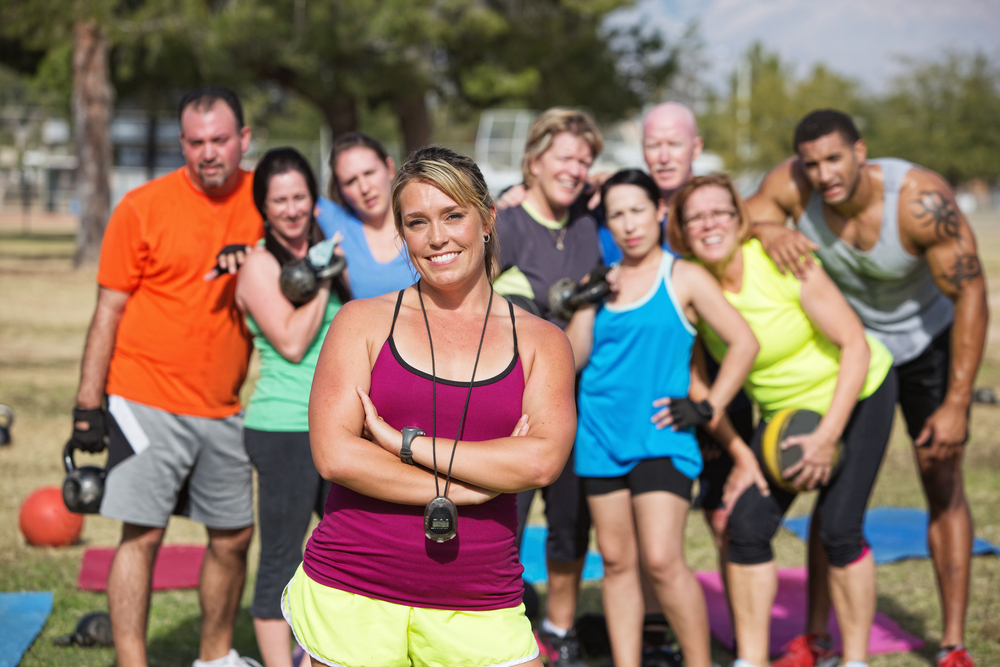
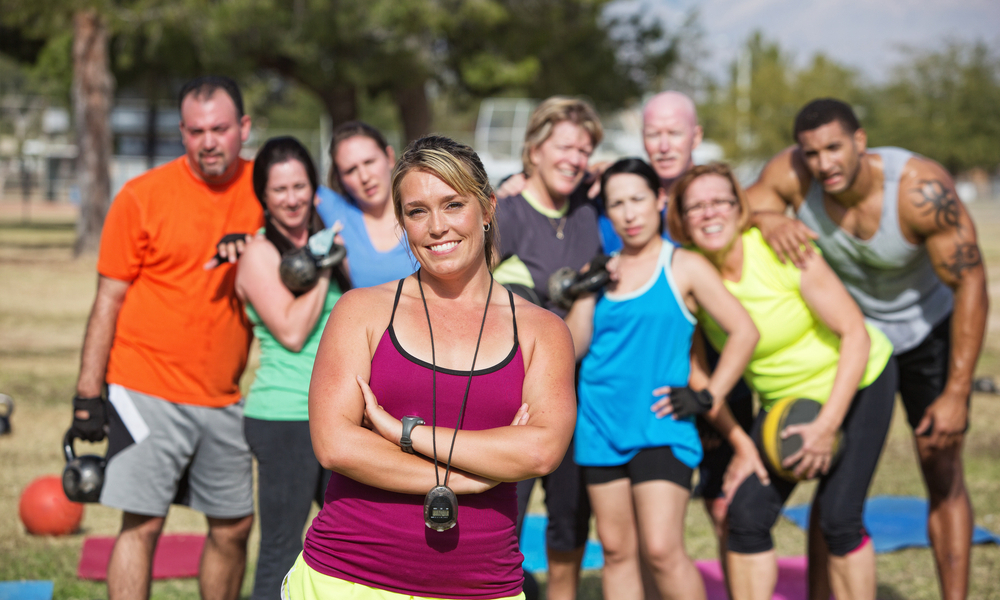
Add info section and image

diff --git a/index.html b/index.html
@@ -38,16 +38,24 @@
             <h2>Allstar Bootcamp</h2>
             <h3>Fun and friendly</h3>
             <h3>Outdoor exercise</h3>
-            <h3>Beautiful Sussex location</h3>
+            <h3>Beautiful location</h3>
+            <h3>West Sussex</h3>
         </div>
     </section>
     <section id="info">
-        <h1>Want to improve your fitness, make friends and feel great?</h1>
-        <div id="left-home">Left</div>
+        <div id="left-home">
+            <img src="assets/images/rebecca-green.jpg" alt="Picture of Rebecca Green">
+        </div>
         <div id="right-home">
+            <h1>Want to improve your fitness, make friends and feel great?</h1>
             <p>At Allstar Bootcamp we provide the training and support you need to become physically fitter, healthier and more confident.</p>
             <br>
             <p>Our bootcamp training session are fun, challenging, rewarding and focus on strength and cardio exercises using a variety of equipment and exercises, and lots of encouragement from the rest of the class.</p>
+            <br>
+            <h2>Personal Trainer - Rebecca Green</h2>
+            <p>Hi I’m Rebecca Green and I started Allstar Bootcamp because I wanted to create a safe and positive environment where people can feel good about themselves whilst they improve their fitness and wellbeing.</p>
+            <p>Having attended a few bootcamps over the years, I have always loved the team spirit and comradery between the trainers and the class members.  The motivation and encouragement shared by the group achieved results, and I and wanted to recreate that feeling.</p>
+            <p>I am a good motivator and push myself and my class members to reach their goals whilst keeping training fun and enjoyable.</p>
         </div>
     </section>
     <footer>Social Media Links</footer>

diff --git a/assets/css/style.css b/assets/css/style.css
@@ -69,23 +69,35 @@ h1, h2 {
 
 #hero-image {
     height: 600px;
-    width: 70%;
+    width: 100%;
     background: url('../images/hero-image.jpg') no-repeat center center;
-    float: left;
+    background-size: 1600px;
 }
 
 #hero-text {
+    font-size: 110%;
+    text-transform: uppercase;
+    letter-spacing: 4px;
+    
+    width: 300px;
+    height: 200px;
+
+    padding-top: 40px;
+    padding-left: 10px;
+
     color: #454545;
     background-color: #59fad7;
-    width: 30%;
-    float: right;
-    margin: 150px 0 150px 0;
+
+    top: 150px;
+    right: 200px;
+
+    position: absolute;
 }
 
-/* information */
+/* information section */
 
 #info {
-    height: 600px;
+    height: 800px;
 }
 
 #left-home {
@@ -100,4 +112,18 @@ h1, h2 {
     width: 70%;
     float: right;
     background-color: green;
+}
+
+#left-home img {
+    height: 360px;
+    width: auto;
+    float: left;
+}
+
+#right-home p {
+    padding-top: 30px;
+}
+
+#right-home h1 {
+    padding: 10px;
 }
